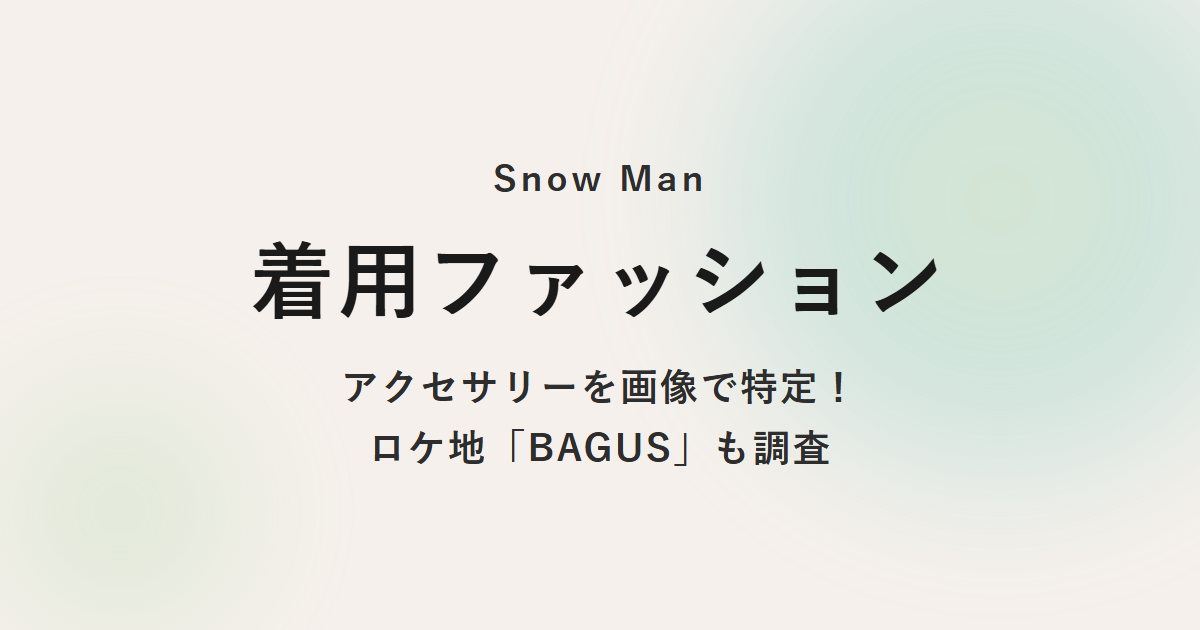
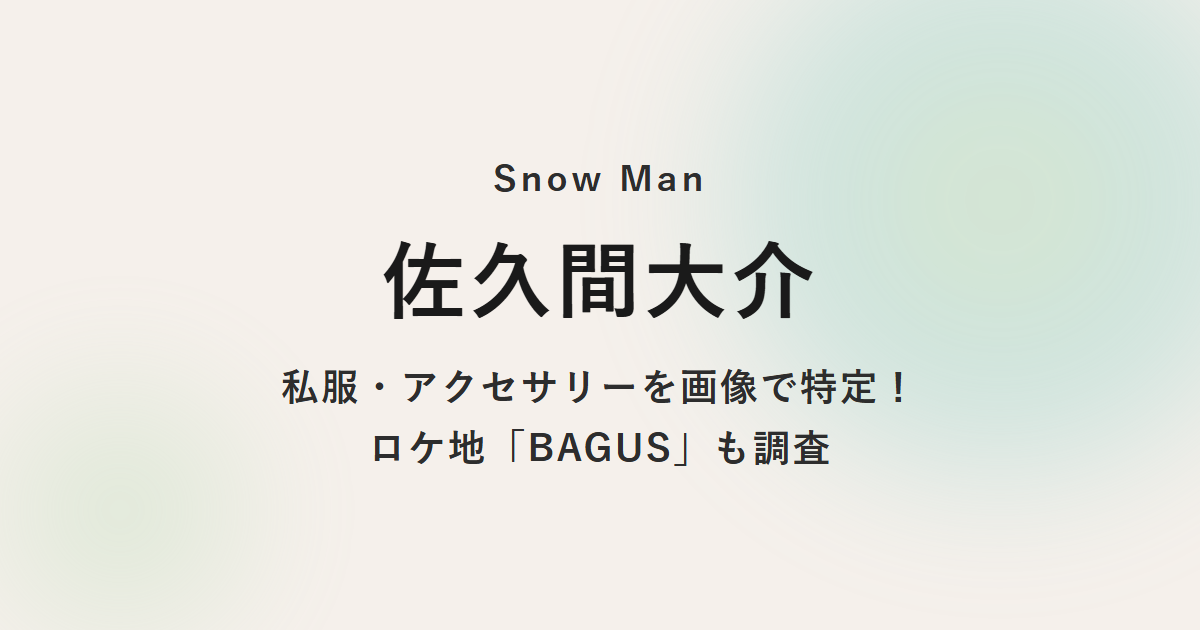
fix: 佐久間大介記事をグループ名抜きの個人名タイトルに再構成
有名人物はグループ名が無くても本人名だけで検索されるため、タイトルから
「Snow Man」を外し「佐久間大介の私服・アクセサリーを画像で特定！」に
変更。記事も佐久間さん個人にフォーカスし、他メンバー分は別記事に
分離する方針にした。trend-titleスキルにもこのルールを追記。

diff --git a/images/snowman_sakuma_manifest_eyecatch.html b/images/snowman_sakuma_manifest_eyecatch.html
@@ -34,8 +34,8 @@ body { width: 1200px; height: 630px; overflow: hidden;
   <div class="blob1"></div>
   <div class="blob2"></div>
   <div class="top-text">Snow Man</div>
-  <div class="name">着用ファッション</div>
-  <div class="bottom-text">アクセサリーを画像で特定！<br>ロケ地「BAGUS」も調査</div>
+  <div class="name">佐久間大介</div>
+  <div class="bottom-text">私服・アクセサリーを画像で特定！<br>ロケ地「BAGUS」も調査</div>
 </div>
 </body>
 </html>

diff --git a/.claude/skills/trend-title/SKILL.md b/.claude/skills/trend-title/SKILL.md
@@ -49,6 +49,7 @@ description: トレンド記事のタイトルを決めるときに使う。himi
 | 要素 | ルール |
 |---|---|
 | 人名 | 必ずタイトルに入れる(検索はほぼ「人名+キーワード」) |
+| グループ名・番組名 | 本人が有名なら不要(2026-07-30ユーザー指摘)。「Snow Man 佐久間大介」ではなく「佐久間大介」単体で検索されるため、グループ名で先頭の貴重な文字数を消費しない。無名な人物・区別が必要な場合(同姓同名がいる等)のみ補足として入れる |
 | 疑問ワード | 「なぜ?」「誰?」「何した?」「どこ?」を使う |
 | 【カッコ】 | 人名を【】で囲む(視認性UP+SEO) |
 | !(感嘆符) | 末尾につける(クリック率アップ) |
